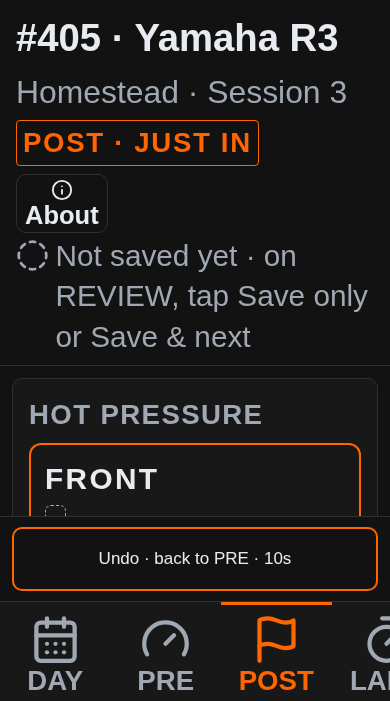
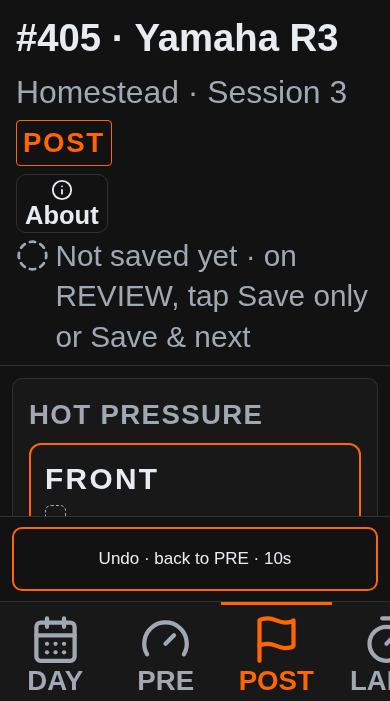
Shorten the stage chip, and guard against unreachable fields
The chip names the stage and nothing else, keeping the fuller wording as its
accessible name where it costs no width, and the bike takes its own row so
the track, session and chip share the next. The header drops from 147px to
120px and PRE fits at 701 with 21px to spare, without touching the 72px
rows, the 72px pad and buttons, the 64px dock or the 13px floor.

The symptoms were unreachable on POST for four versions with no test to say
so. The new guard reads the shipped markup, applies showTab's own rules for
panels and data-stage blocks, and asserts every input, select and textarea is
visible on at least one stage. Three fields are excluded with reasons, and a
further test fails if an excluded id stops existing.

Its first version missed the very regression it exists for, because the
symptom checkboxes carry no id. Controls without one are now keyed by value,
and putting the symptoms back in the DAY panel fails both the general test
and the named one.

Claude-Session: https://claude.ai/code/session_01LmzceTAsvGjNnxbDzcXJyd

Changed region(s): [[0.3385, 0.1797, 0.5231, 0.2397], [0.5538, 0.1797, 0.6769, 0.2397], [0.2769, 0.1797, 0.3077, 0.2397]]

diff --git a/tests/field-reachability.test.js b/tests/field-reachability.test.js
@@ -1,0 +1,130 @@
+import assert from "node:assert/strict";
+import test from "node:test";
+import { readFileSync } from "node:fs";
+import { join } from "node:path";
+
+// The regression this exists for: moving panel-suspension to DAY in beta.16
+// took the POST symptoms with it, and they were unreachable from beta.16 to
+// beta.19 without a single test noticing. A field the rider cannot reach on
+// any stage is a field that cannot be filled in.
+//
+// This reads the shipped markup rather than booting the stub DOM, because the
+// stub has no panels and no data-stage wrappers - the very things that hide a
+// field. The rules below mirror showTab(): a panel shows on the stages listed
+// for it, and inside a panel a [data-stage] block shows only on its own stage.
+
+const HTML = readFileSync(join(import.meta.dirname, "..", "public", "log", "index.html"), "utf8");
+const APP = readFileSync(join(import.meta.dirname, "..", "public", "app.js"), "utf8");
+
+// Fields that are deliberately not on a session stage. Each needs a reason.
+const EXCLUDED = {
+  "feedback-email": "About > Feedback, so the rider can be replied to - not a session field",
+  "feedback-body": "About > Feedback message text - not a session field",
+  "autosave-switch": "the auto-save setting in About, not a reading about the outing",
+};
+
+function stagePanels() {
+  const block = APP.slice(APP.indexOf("const STAGE_PANELS"), APP.indexOf("};", APP.indexOf("const STAGE_PANELS")));
+  const map = {};
+  for (const m of block.matchAll(/(\w+):\s*\[([^\]]*)\]/g)) {
+    map[m[1]] = [...m[2].matchAll(/"([^"]+)"/g)].map((p) => p[1]);
+  }
+  return map;
+}
+
+// Every <section class="panel" id="..."> and the slice of markup it owns.
+function panels() {
+  const out = {};
+  const re = /<section class="panel" id="([^"]+)"/g;
+  let m;
+  const starts = [];
+  while ((m = re.exec(HTML)) !== null) starts.push([m.index, m[1]]);
+  starts.forEach(([start, id], i) => {
+    // A panel runs to the start of the next panel, or to </main>.
+    const end = i + 1 < starts.length ? starts[i + 1][0] : HTML.indexOf("</main>", start);
+    out[id] = HTML.slice(start, end);
+  });
+  return out;
+}
+
+// Which stages a given offset inside a panel is visible on: the panel's own
+// stages, narrowed by any [data-stage] wrapper the field sits inside.
+function stagesForOffset(markup, offset, panelStages) {
+  let stages = panelStages.slice();
+  const re = /<div[^>]*\sdata-stage="([a-z]+)"/g;
+  let m;
+  while ((m = re.exec(markup)) !== null) {
+    if (m.index > offset) break;
+    // Walk forward from this wrapper counting divs to find where it closes.
+    let depth = 0, i = m.index;
+    const tag = /<\/?div\b/g;
+    tag.lastIndex = i;
+    let t;
+    let close = markup.length;
+    while ((t = tag.exec(markup)) !== null) {
+      depth += t[0] === "<div" ? 1 : -1;
+      if (depth === 0) { close = t.index; break; }
+    }
+    if (offset > m.index && offset < close) stages = stages.filter((s) => s === m[1]);
+  }
+  return stages;
+}
+
+test("every rider-facing field is reachable on at least one stage", () => {
+  const STAGE_PANELS = stagePanels();
+  const PANELS = panels();
+  const reachable = new Map();
+
+  for (const [panelId, markup] of Object.entries(PANELS)) {
+    const panelStages = Object.keys(STAGE_PANELS).filter((s) => STAGE_PANELS[s].includes(panelId));
+    for (const m of markup.matchAll(/<(input|select|textarea)\b[^>]*>/g)) {
+      if (/type="hidden"/.test(m[0])) continue;    // stored state, never shown
+      const idMatch = m[0].match(/\bid="([^"]+)"/);
+      const valueMatch = m[0].match(/\bvalue="([^"]+)"/);
+      // A control with no id still has to be reachable. The symptom and tag
+      // checkboxes are exactly that shape, and keying them by value is what
+      // makes this guard see the regression it exists for.
+      const key = idMatch ? idMatch[1] : valueMatch ? "value:" + valueMatch[1] : null;
+      if (!key) continue;
+      const stages = stagesForOffset(markup, m.index, panelStages);
+      const prev = reachable.get(key) || [];
+      reachable.set(key, prev.concat(stages));
+    }
+  }
+
+  assert.ok(reachable.size > 20, `found ${reachable.size} fields - the parser should see far more`);
+
+  const unreachable = [];
+  for (const [id, stages] of reachable) {
+    if (EXCLUDED[id]) continue;
+    if (stages.length === 0) unreachable.push(id);
+  }
+  assert.deepEqual(unreachable, [],
+    "these fields are on no stage, so the rider can never fill them in: " + unreachable.join(", "));
+
+  // The exact field that went missing, named so this cannot regress quietly.
+  for (const id of ["front-pre", "front-post", "fork-comp", "shock-reb", "tire-brand",
+                    "warmer-on", "value:chatter", "value:midcorner-push"]) {
+    assert.ok((reachable.get(id) || []).length > 0, `${id} must be reachable`);
+  }
+});
+
+test("the POST symptoms are reachable on POST", () => {
+  const PANELS = panels();
+  const STAGE_PANELS = stagePanels();
+  const owner = Object.entries(PANELS).find(([, markup]) => markup.includes('id="symptoms"'));
+  assert.ok(owner, "the symptoms block is in a panel");
+  const [panelId, markup] = owner;
+  const panelStages = Object.keys(STAGE_PANELS).filter((s) => STAGE_PANELS[s].includes(panelId));
+  assert.ok(panelStages.includes("post"),
+    `#symptoms lives in ${panelId}, which POST does not show - the beta.16 regression`);
+  const stages = stagesForOffset(markup, markup.indexOf('id="symptoms"'), panelStages);
+  assert.ok(stages.includes("post"), "and it is not hidden by a wrapper for another stage");
+});
+
+test("every excluded field still exists, so the list cannot rot", () => {
+  for (const [id, reason] of Object.entries(EXCLUDED)) {
+    assert.ok(HTML.includes(`id="${id}"`), `${id} is excluded (${reason}) but no longer exists`);
+    assert.ok(reason.length > 10, `${id} needs a real reason`);
+  }
+});

diff --git a/public/app.js b/public/app.js
@@ -1357,9 +1357,17 @@
   // C3: which stage the context line is describing. Wording follows the stage
   // the rider is actually on; PRE and POST get the handoff's fuller phrasing
   // because those two are the ones with a before/after meaning.
+  // The stage bar already shows which stage is active, so the chip only has to
+  // name it. The fuller wording stays as the accessible name, where it costs no
+  // width - at 390px the long text was 385px against 358px and pushed the
+  // header onto a third line.
   const STAGE_CHIP = {
-    day: "DAY", pre: "PRE \u00b7 BEFORE ROLLOUT", post: "POST \u00b7 JUST IN",
+    day: "DAY", pre: "PRE", post: "POST",
     laps: "LAPS", notes: "NOTES", review: "REVIEW",
+  };
+  const STAGE_CHIP_FULL = {
+    day: "Day", pre: "PRE \u00b7 before rollout", post: "POST \u00b7 just in",
+    laps: "Laps", notes: "Notes", review: "Review",
   };
 
   function renderStageChip() {
@@ -1367,6 +1375,9 @@
     if (!chip) return;
     const text = STAGE_CHIP[_stage] || "";
     chip.textContent = text;
+    const full = STAGE_CHIP_FULL[_stage] || text;
+    if (text) chip.setAttribute("aria-label", full);
+    else chip.removeAttribute("aria-label");
     chip.hidden = !text;
   }
 
@@ -1377,8 +1388,7 @@
     const track = str("track");
     const label = str("session-label");
     // An unset bike or track says so rather than leaving the line empty.
-    // The short stage name only: "No bike set \u00b7 DAY", not the whole chip.
-    const chipText = String(STAGE_CHIP[_stage] || "").split(" \u00b7 ")[0];
+    const chipText = String(STAGE_CHIP[_stage] || "");
     const bikeLine = SP.headerBikeLine(bike, chipText);
     const where = SP.headerTrackLine(track, label);
     document.getElementById("context-bike").textContent = bikeLine;

diff --git a/tests/feedback.test.js b/tests/feedback.test.js
@@ -57,7 +57,7 @@ const count = (sql, ...a) => row(sql, ...a).n;
   // one string forever would make that release process impossible. What must
   // not move is the claim - this stays a pre-1.0 beta until MotoTrack Log
   // actually declares 1.0, and that is asserted on its own below.
-  assert.equal(APP_VERSION, "0.1.0-beta.19", "canonical internal app version");
+  assert.equal(APP_VERSION, "0.1.0-beta.20", "canonical internal app version");
   assert.match(APP_VERSION, /^0\.\d+\.\d+-beta\.\d+$/,
     "still a pre-1.0 beta: declaring 1.0 is a product decision, not a version bump");
   assert.deepEqual([...FEEDBACK_STATES], ["new", "reviewing", "actionable", "closed"]);

diff --git a/public/styles.css b/public/styles.css
@@ -764,6 +764,9 @@ select:focus { outline: 2px solid var(--accent); border-color: var(--accent); }
    flex container, so a long bike or track name cannot wrap until its item is
    allowed to shrink. A rider's own label must never be cut off or scaled down. */
 .context-bike {
+  /* Its own row: the track, session and chip then share the next one, and the
+     chip drops to a third line only when that row genuinely will not hold it. */
+  flex: 1 1 100%;
   font-size: 1.125rem;
   font-weight: 700;
   min-width: 0;

diff --git a/src/app-version.js b/src/app-version.js
@@ -14,4 +14,4 @@
 //
 // This is an INTERNAL canonical application-version identifier, not a
 // billing/plan/version marketing claim. MotoTrack Log has not declared 1.0.
-export const APP_VERSION = "0.1.0-beta.19";
+export const APP_VERSION = "0.1.0-beta.20";

diff --git a/docs/review-artifacts/pr81/README.md b/docs/review-artifacts/pr81/README.md
@@ -78,3 +78,86 @@ this brief asked for a screenshot of them.
 
 `REVIEW_beta18_spec_glove_sun_text.md`, cited as the full review, is not in the
 handoff folder. This was built from the brief alone.
+
+---
+
+# Round 2 (`0.1.0-beta.20`)
+
+## 1. The stage chip, and PRE now fits
+
+The chip reads the stage name only — `PRE`, `POST`, `DAY`, `REVIEW` — with the
+fuller wording kept as `aria-label` ("PRE · before rollout"), where it costs no
+width. The bike name takes its own row, so the track, session and chip share
+the next one; at default and 150% they are measured on the same row, and the
+chip drops to its own line only at 200%.
+
+**Header height: 147px → 120px (−27).**
+
+| case | usable | needs | dock top | result |
+|---|---|---|---|---|
+| **PRE, FRONT open** | **701** | 535 | 556 | **fits, 21px spare** |
+| PRE, FRONT open | 844 | 535 | 699 | fits, 164px spare |
+| POST, FRONT open | 701 | 520 | 556 | fits, 36px spare |
+| POST, FRONT open | 844 | 520 | 699 | fits, 179px spare |
+
+No protected size was touched: 72px rows, 72px pad and ±, 64px dock, and the
+13px floor all stand. No horizontal page scroll and nothing clipped at any size.
+
+Header line by line, since the brief asked for it either way:
+
+| | default | 150% | 200% |
+|---|---|---|---|
+| header | 120 | 225 | 366 |
+| context line | 58 | 82 | 156 |
+| chip on the track/session row | yes | yes | no, its own line |
+
+## 2. Reachability guard
+
+`tests/field-reachability.test.js`. The app has no `#session-form`, so it reads
+the shipped markup and applies `showTab`'s own rules: a panel shows on the
+stages listed for it, and a `[data-stage]` block inside it narrows that further.
+Every `input`, `select` and `textarea` must be visible on at least one stage.
+
+Three fields are excluded, each with its reason: `feedback-email` and
+`feedback-body` (About ▸ Feedback, not session fields) and `autosave-switch`
+(a setting, not a reading). A fourth test asserts every excluded id still
+exists, so the list cannot rot.
+
+**It catches the original regression.** Moving the symptoms back into
+`panel-suspension` fails both the general test and the named one:
+
+> `#symptoms lives in panel-suspension, which POST does not show — the beta.16 regression`
+
+First attempt did **not** catch it: the symptom checkboxes carry no `id`, and
+the parser skipped them. Controls without an id are now keyed by their `value`,
+which is what makes the general guard see it.
+
+## 3. Review items not built and not ruled out
+
+Checked `REVIEW_beta18_spec_glove_sun_text.md` line by line against the branch.
+
+**Nothing is outstanding.** Every coder item is built. For the record:
+
+| item | state |
+|---|---|
+| A1 nav + `aria-current` | built |
+| A2 POST dock 2px accent | built. Height is **64px**, not the review's 60/72 — the round-1 brief ruled 64 |
+| A3 DAY copy (D3) | built, per the round-1 brief |
+| A4 tokens | built: `#1a0a00`→`var(--bg)` ×4, `rgba(255,102,0,…)`→`var(--bg-elev)` ×5 |
+| A5 dock sub-line above 150% | **no action by design** — the review accepts the shipped behaviour |
+| A6 media wrapper + tripled comment | built |
+| A7 About copy | built, all four lines |
+| A8 README | **not a coder task**, the review says so explicitly |
+| B1 Undo / B5 overscroll / B6 beforeunload | built |
+| B2 72px dock (D2) | ruled 64px by the round-1 brief |
+| B3 symptom chips | built |
+| B4 16px gap + divider | correctly **not** built: conditional on D2 = 72px, which was ruled out, so flush stands |
+| B7 no-keyboard PRE/POST | no change required |
+| C1–C4 sun | built |
+| D1 13px floor | built |
+| D2 tire rows at 150% | screenshots supplied |
+
+One wording note on D2: the review says the suspension grid "already switches
+with a container query". It does not — it uses wrapping flex rows with a rem
+basis, because a container query keys off width, which does not change when
+only the text size does.
